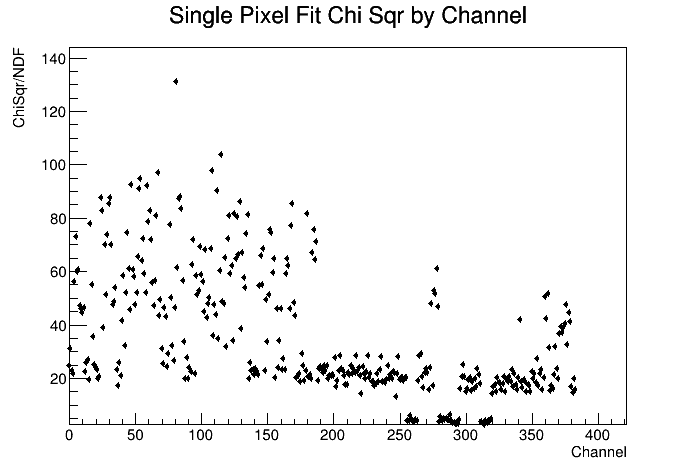
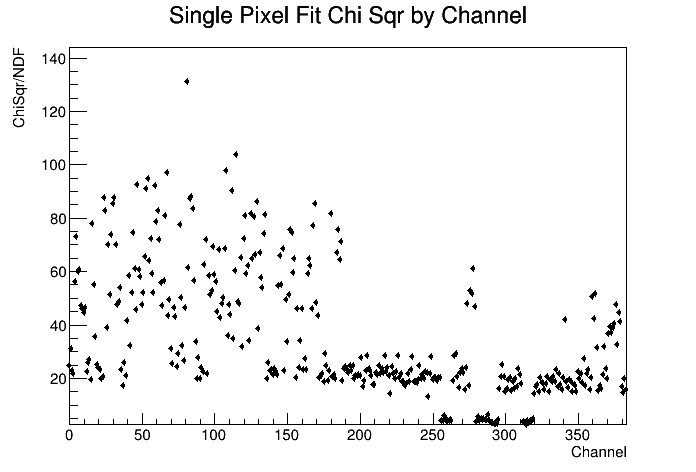
minor modifications to chi sqr graph

diff --git a/pixel_gap/qa_output_00015750/all_fits.C b/pixel_gap/qa_output_00015750/all_fits.C
@@ -118,7 +118,6 @@ void all_fits () {
     Double_t sp_gap = sp_fit->Parameter(3);
     sp_gaps[i] = sp_gap;
     chisqr_ndfs[i] = sp_fit->Chi2() / sp_fit->Ndf();
-    printf("channel %i has ndf=%u\n", i, sp_fit->Ndf());
     //std::cout << Form("Channel %i, Parameter 3: %f", i, sp_gap) << std::endl;
     
     TCanvas* c1 = new TCanvas(Form("c%i", i), "", 700, 500);
@@ -167,9 +166,23 @@ void all_fits () {
   chi_graph->GetYaxis()->SetTitle("ChiSqr/NDF");
   chi_graph->SetMarkerStyle(33);
   chi_graph->SetMarkerSize(1.0);
+  chi_graph->GetXaxis()->SetLimits(0.0, 383.0);
   chi_graph->Draw("AP");
   // canvas->Update();
   c_chi->SaveAs("./chisqr_by_channel.png");
 
   printf("max chisqr_ndf: %f (channel %i); min chisqr_ndf: %f (channel %i)\n", max_chisqr_ndf, max_chisqr_idx, min_chisqr_ndf, min_chisqr_idx);
+
+  // compute averages for IBs 0-2 and 3-5
+  Double_t avg_gap = 0;
+  for (int i = 0; i < 192; i++) {
+    avg_gap += sp_gaps[i];
+  }
+  Double_t ib0_2_avg_gap = avg_gap / 192;
+  avg_gap = 0;
+  for (int i = 192; i < 384; i++) {
+    avg_gap += sp_gaps[i];
+  }
+  Double_t ib3_5_avg_gap = avg_gap / 192;
+  printf("IBs 0-2: avg sp gap = %f; IBs 3-5 avg sp gap = %f\n", ib0_2_avg_gap, ib3_5_avg_gap);
 }
